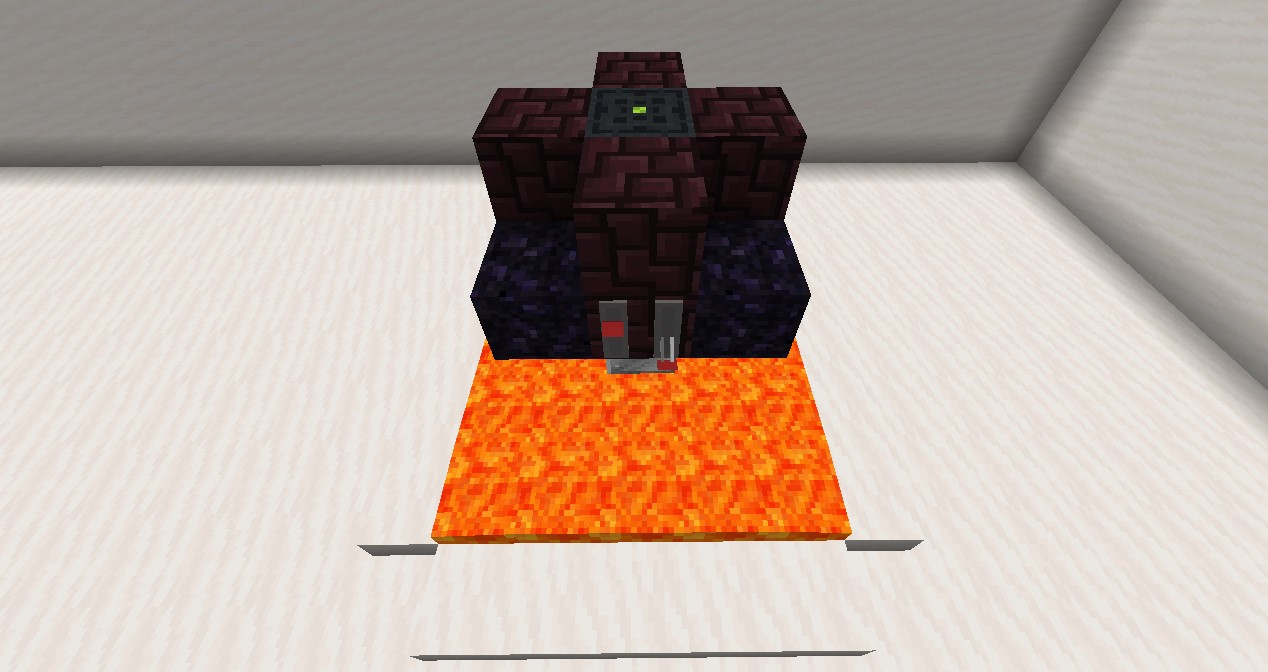
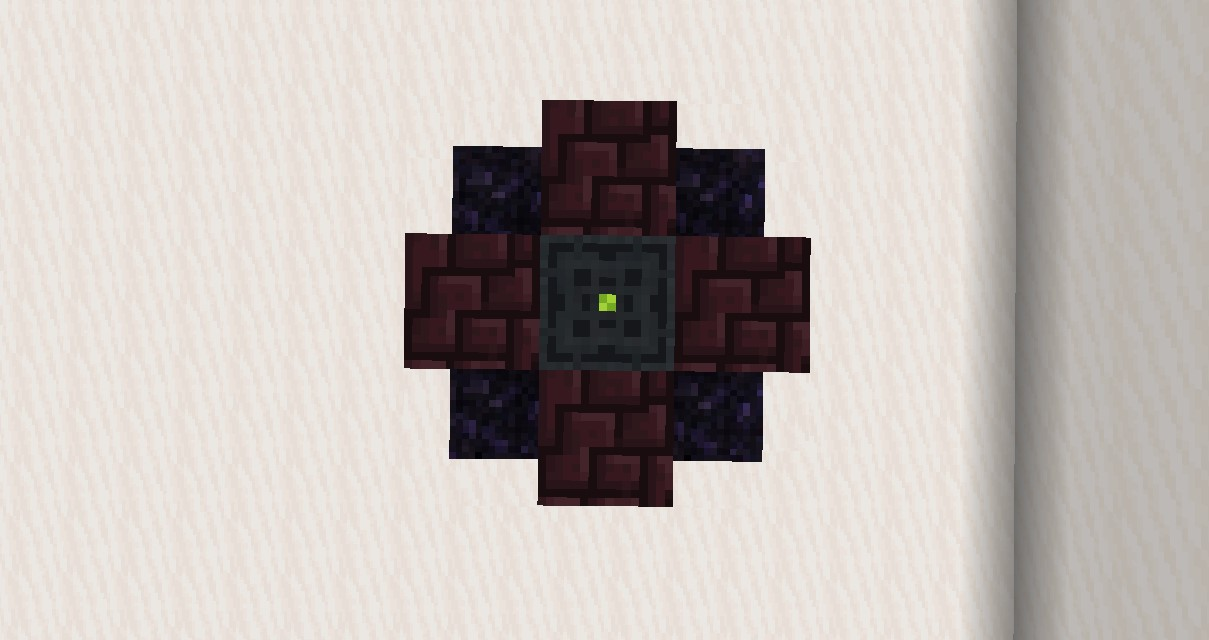
update view from above image for geothermal generator

diff --git a/resonant/management.html b/resonant/management.html
@@ -273,7 +273,7 @@
           <pth>Required blocks</pth>
           <ptd>Resonant cable (output)</ptd>
           <ptd>1</ptd>
-          <ptd>Netherbrick</ptd>
+          <ptd>Nether bricks</ptd>
           <ptd>8</ptd>
           <ptd>Obsidian</ptd>
           <ptd>4</ptd>
